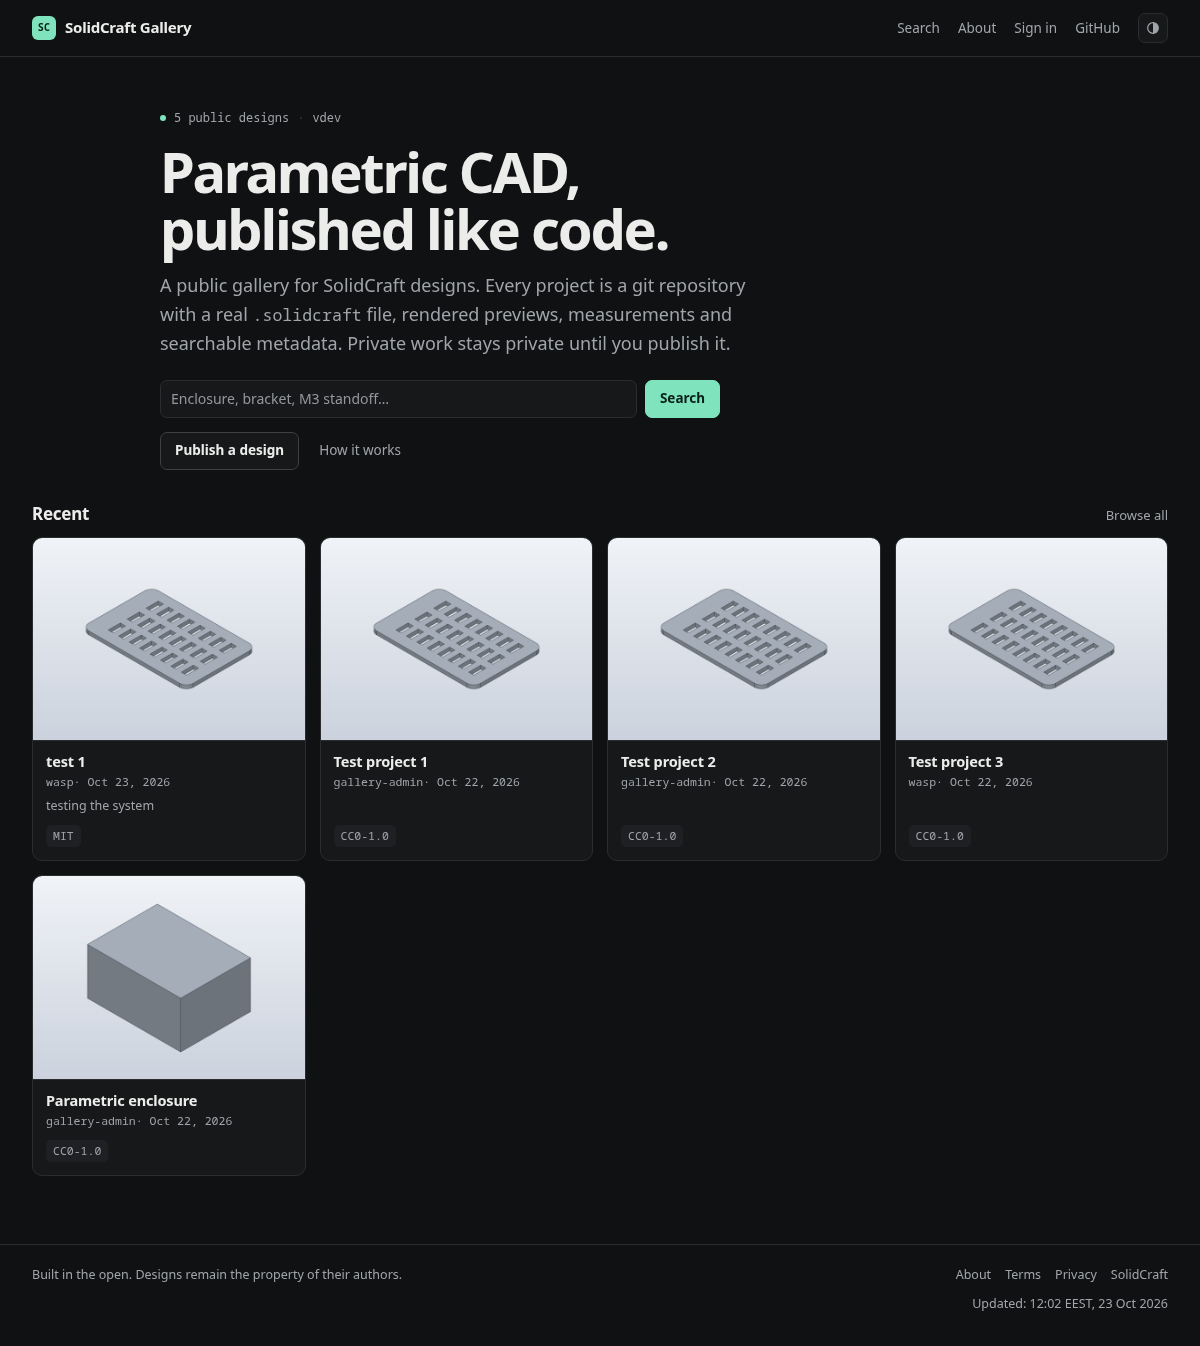
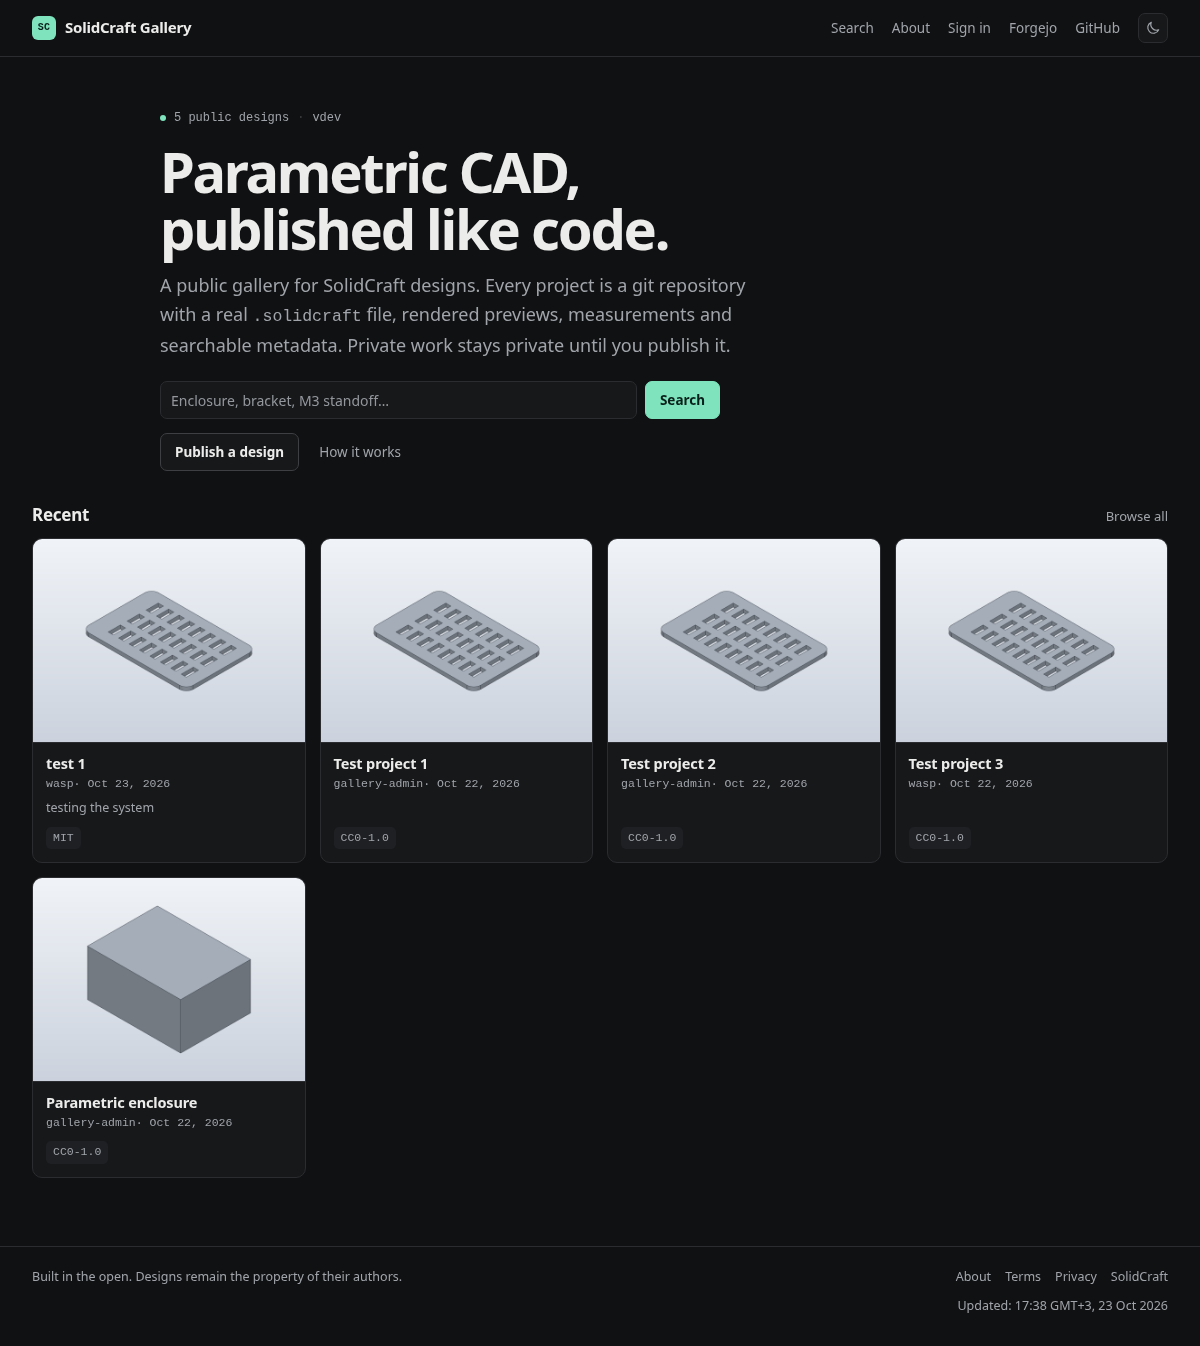
feat: link the configured Forgejo instance from the header
Show a Forgejo link in the top-right navigation between Dashboard and GitHub. It opens FORGEJO_PUBLIC_URL (falling back to FORGEJO_URL) in a new tab and is hidden when neither is configured. Refresh the affected screenshots.

diff --git a/apps/web/test/forgejo-url.test.ts b/apps/web/test/forgejo-url.test.ts
@@ -1,0 +1,48 @@
+import { afterEach, beforeEach, describe, expect, it } from 'vitest';
+import { forgejoPublicUrl } from '../src/lib/server/forgejo.js';
+
+const KEYS = ['FORGEJO_PUBLIC_URL', 'FORGEJO_URL'] as const;
+const ORIGINAL = Object.fromEntries(KEYS.map((key) => [key, process.env[key]])) as Record<
+  (typeof KEYS)[number],
+  string | undefined
+>;
+
+beforeEach(() => {
+  for (const key of KEYS) delete process.env[key];
+});
+
+afterEach(() => {
+  for (const key of KEYS) {
+    const value = ORIGINAL[key];
+    if (value === undefined) delete process.env[key];
+    else process.env[key] = value;
+  }
+});
+
+describe('forgejoPublicUrl', () => {
+  it('prefers the explicit public URL over the legacy FORGEJO_URL', () => {
+    process.env.FORGEJO_PUBLIC_URL = 'https://forgejo.example';
+    process.env.FORGEJO_URL = 'https://internal.example';
+    expect(forgejoPublicUrl()).toBe('https://forgejo.example');
+  });
+
+  it('falls back to FORGEJO_URL, which compose sets to the public URL', () => {
+    process.env.FORGEJO_URL = 'https://forgejo.example';
+    expect(forgejoPublicUrl()).toBe('https://forgejo.example');
+  });
+
+  it('strips the trailing slash of the configured root URL', () => {
+    process.env.FORGEJO_PUBLIC_URL = 'https://forgejo.example/';
+    expect(forgejoPublicUrl()).toBe('https://forgejo.example');
+  });
+
+  it('trims surrounding whitespace and ignores blank values', () => {
+    process.env.FORGEJO_PUBLIC_URL = '  ';
+    process.env.FORGEJO_URL = ' https://forgejo.example/ ';
+    expect(forgejoPublicUrl()).toBe('https://forgejo.example');
+  });
+
+  it('returns null when Forgejo is not configured', () => {
+    expect(forgejoPublicUrl()).toBeNull();
+  });
+});

diff --git a/apps/web/src/lib/server/forgejo.ts b/apps/web/src/lib/server/forgejo.ts
@@ -8,6 +8,17 @@ export interface ForgejoContext {
 }
 
 /**
+ * Browser-facing Forgejo base URL, without a trailing slash. Compose passes
+ * `FORGEJO_PUBLIC_URL` to the web tier as `FORGEJO_URL`, so accept both and let
+ * the explicitly public name win. Returns null when Forgejo is not configured,
+ * so callers can hide links to it instead of rendering a broken one.
+ */
+export function forgejoPublicUrl(): string | null {
+  const url = process.env.FORGEJO_PUBLIC_URL?.trim() || process.env.FORGEJO_URL?.trim();
+  return url ? url.replace(/\/+$/, '') : null;
+}
+
+/**
  * Provisioning is intentionally server-side: the admin token creates private
  * repositories and adds the signed-in Forgejo user as a collaborator. User OAuth
  * tokens are not persisted yet.
@@ -17,7 +28,7 @@ export function forgejoContext(): ForgejoContext | null {
   if (!token) return null;
 
   const internal = process.env.FORGEJO_INTERNAL_URL?.trim() || process.env.FORGEJO_URL?.trim() || 'http://forgejo:3000';
-  const publicUrl = process.env.FORGEJO_PUBLIC_URL?.trim() || process.env.FORGEJO_URL?.trim() || internal;
+  const publicUrl = forgejoPublicUrl() ?? internal;
 
   return { client: new ForgejoClient({ baseUrl: internal, publicUrl, token }), publicUrl };
 }

diff --git a/apps/web/src/routes/+layout.server.ts b/apps/web/src/routes/+layout.server.ts
@@ -1,4 +1,5 @@
 import { currentViewer } from '../lib/server/auth';
+import { forgejoPublicUrl } from '../lib/server/forgejo';
 import { formatUpdatedAt, siteBuiltAt } from '../lib/server/updated';
 
 export async function load(event) {
@@ -13,6 +14,7 @@ export async function load(event) {
 
   return {
     viewer,
+    forgejoUrl: forgejoPublicUrl(),
     locale: event.locals.locale,
     siteUpdated: {
       iso: builtAt.toISOString(),

diff --git a/apps/web/src/lib/i18n/bg.ts b/apps/web/src/lib/i18n/bg.ts
@@ -15,6 +15,7 @@ export const bg: Dictionary = {
   'common.signOut': 'Изход',
   'common.terms': 'Условия',
   'common.privacy': 'Поверителност',
+  'common.forgejo': 'Forgejo',
   'common.github': 'GitHub',
   'common.footerNote': 'Създадено открито. Дизайните остават собственост на техните автори.',
   'common.updated': 'Обновено:',

diff --git a/apps/web/src/routes/+layout.svelte b/apps/web/src/routes/+layout.svelte
@@ -32,6 +32,9 @@
       {:else}
         <a href="/auth/login">{t('common.signIn')}</a>
       {/if}
+      {#if data.forgejoUrl}
+        <a href={data.forgejoUrl} target="_blank" rel="noopener noreferrer">{t('common.forgejo')}</a>
+      {/if}
       <a href="https://github.com/kkazakov/solidcraft-gallery">{t('common.github')}</a>
       <button
         id="theme-toggle"

diff --git a/apps/web/src/lib/i18n/es.ts b/apps/web/src/lib/i18n/es.ts
@@ -15,6 +15,7 @@ export const es: Dictionary = {
   'common.signOut': 'Cerrar sesión',
   'common.terms': 'Condiciones',
   'common.privacy': 'Privacidad',
+  'common.forgejo': 'Forgejo',
   'common.github': 'GitHub',
   'common.footerNote': 'Construido a la vista de todos. Los diseños siguen siendo propiedad de sus autores.',
   'common.updated': 'Actualizado:',

diff --git a/apps/web/src/lib/i18n/fr.ts b/apps/web/src/lib/i18n/fr.ts
@@ -15,6 +15,7 @@ export const fr: Dictionary = {
   'common.signOut': 'Se déconnecter',
   'common.terms': 'Conditions',
   'common.privacy': 'Confidentialité',
+  'common.forgejo': 'Forgejo',
   'common.github': 'GitHub',
   'common.footerNote': 'Construit en plein jour. Les designs restent la propriété de leurs auteurs.',
   'common.updated': 'Mis à jour :',

diff --git a/apps/web/src/lib/i18n/de.ts b/apps/web/src/lib/i18n/de.ts
@@ -15,6 +15,7 @@ export const de: Dictionary = {
   'common.signOut': 'Abmelden',
   'common.terms': 'Bedingungen',
   'common.privacy': 'Datenschutz',
+  'common.forgejo': 'Forgejo',
   'common.github': 'GitHub',
   'common.footerNote': 'Offen gebaut. Designs bleiben Eigentum ihrer Autoren.',
   'common.updated': 'Aktualisiert:',

diff --git a/apps/web/src/lib/i18n/en.ts b/apps/web/src/lib/i18n/en.ts
@@ -16,6 +16,7 @@ export const en = {
   'common.signOut': 'Sign out',
   'common.terms': 'Terms',
   'common.privacy': 'Privacy',
+  'common.forgejo': 'Forgejo',
   'common.github': 'GitHub',
   'common.footerNote': 'Built in the open. Designs remain the property of their authors.',
   'common.updated': 'Updated:',
